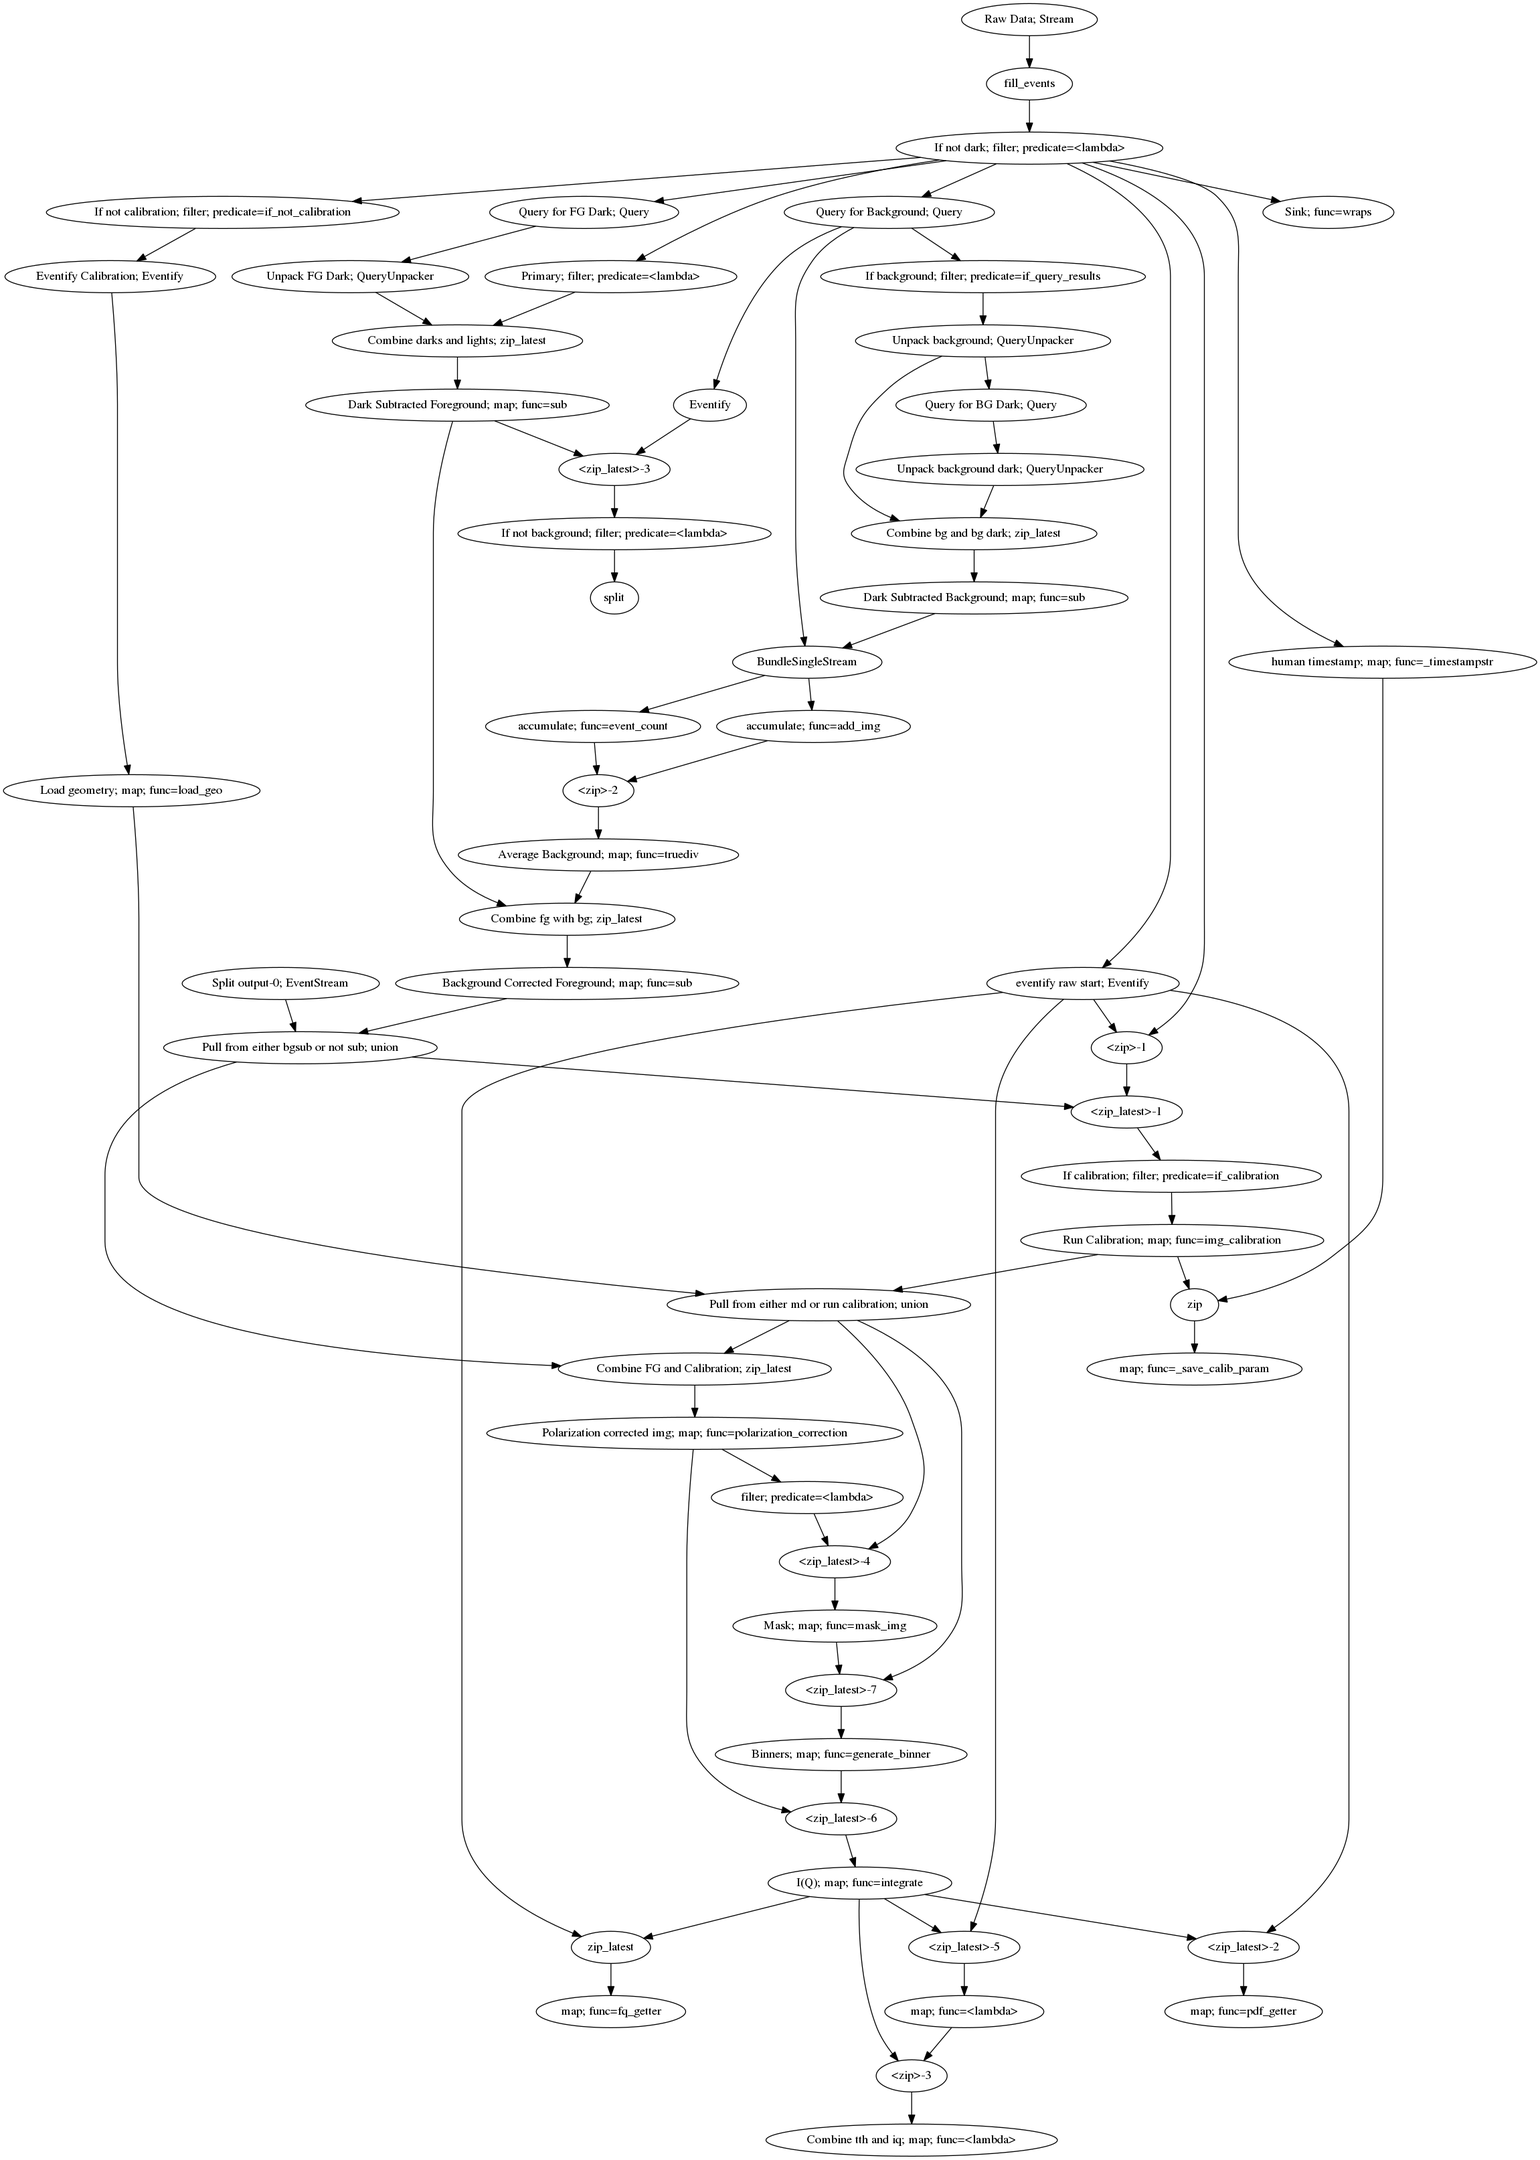
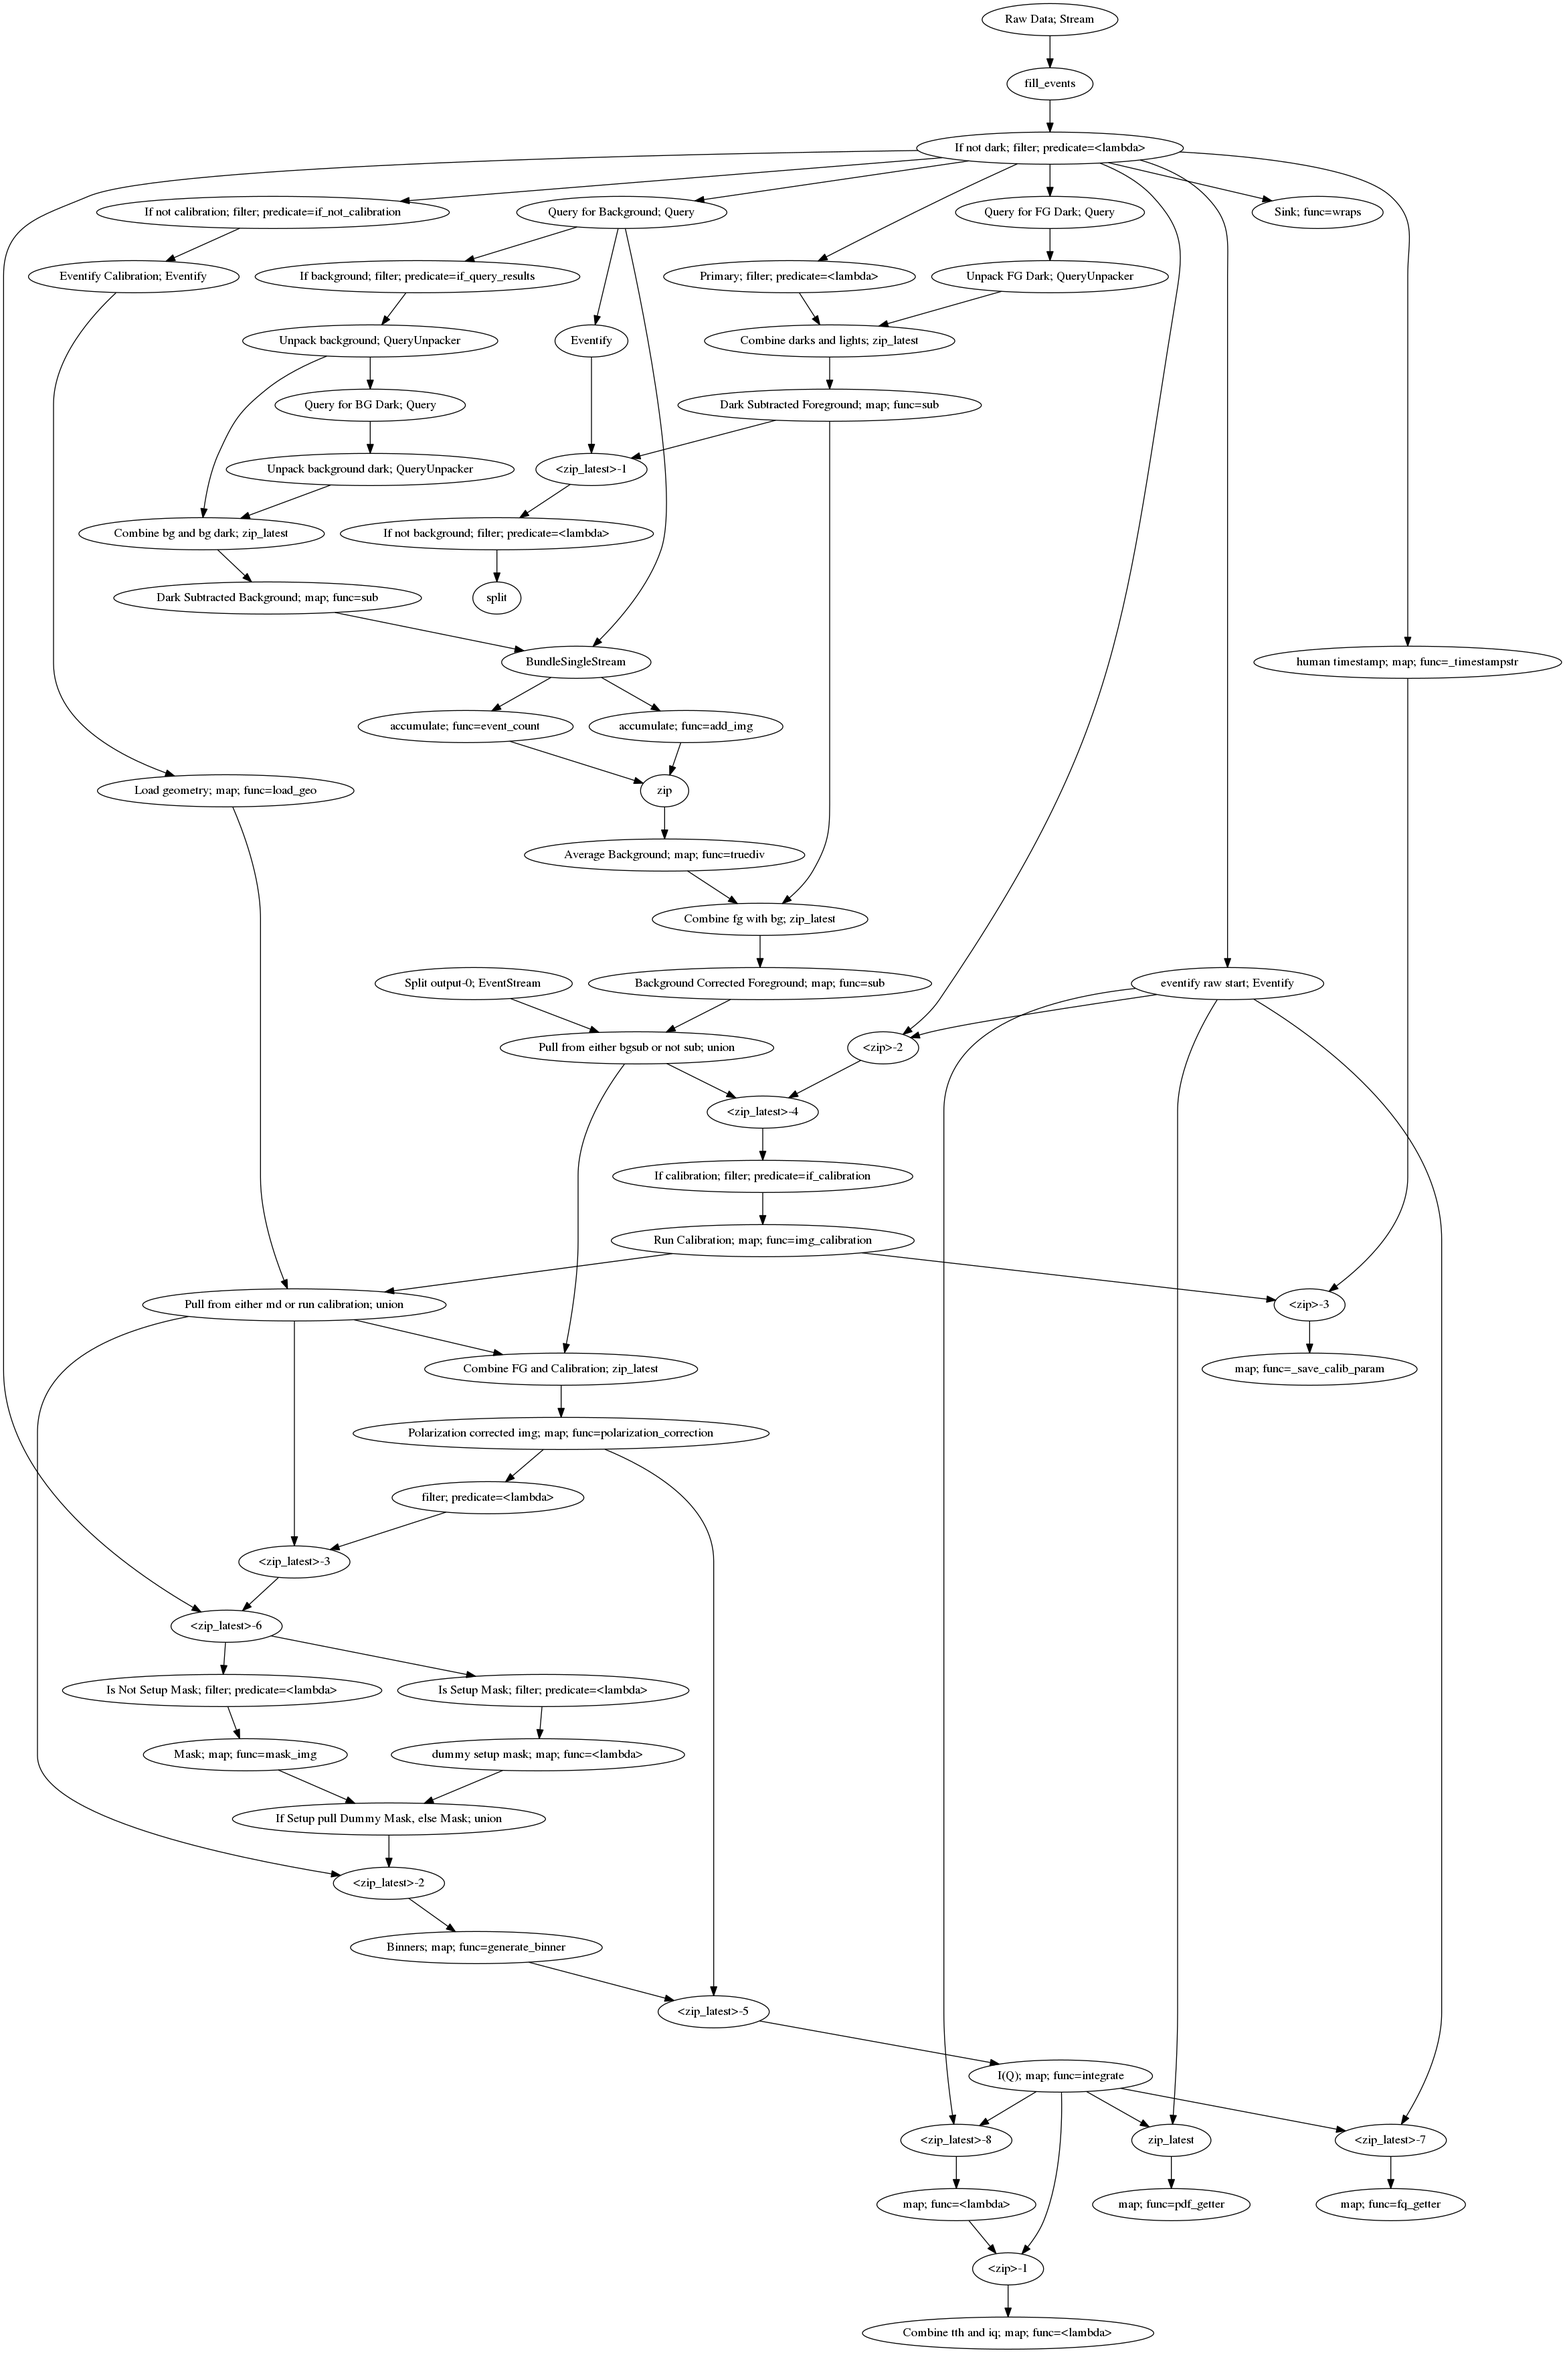
DOC: be more verbose in graphs

diff --git a/xpdan/pipelines/main.py b/xpdan/pipelines/main.py
@@ -378,6 +378,7 @@ def conf_main_pipeline(db, save_dir, *, write_to_disk=False, vis=True,
                                        md=dict(analysis_stage='mask'))
 
         mask_stream = not_setup_mask_stream.union(blank_mask_stream)
+        mask_stream.stream_name = 'If Setup pull Dummy Mask, else Mask'
     # generate binner stream
     zlmc = es.zip_latest(mask_stream, loaded_calibration_stream)
 

diff --git a/examples/run_main.py b/examples/run_main.py
@@ -33,7 +33,7 @@ source = conf_main_pipeline(db, td.name,
                             # verbose=True
                             )
 source.visualize()
-# '''
+'''
 seen = False
 for hdr in list((db[-1], )):
     for e in hdr.documents():
